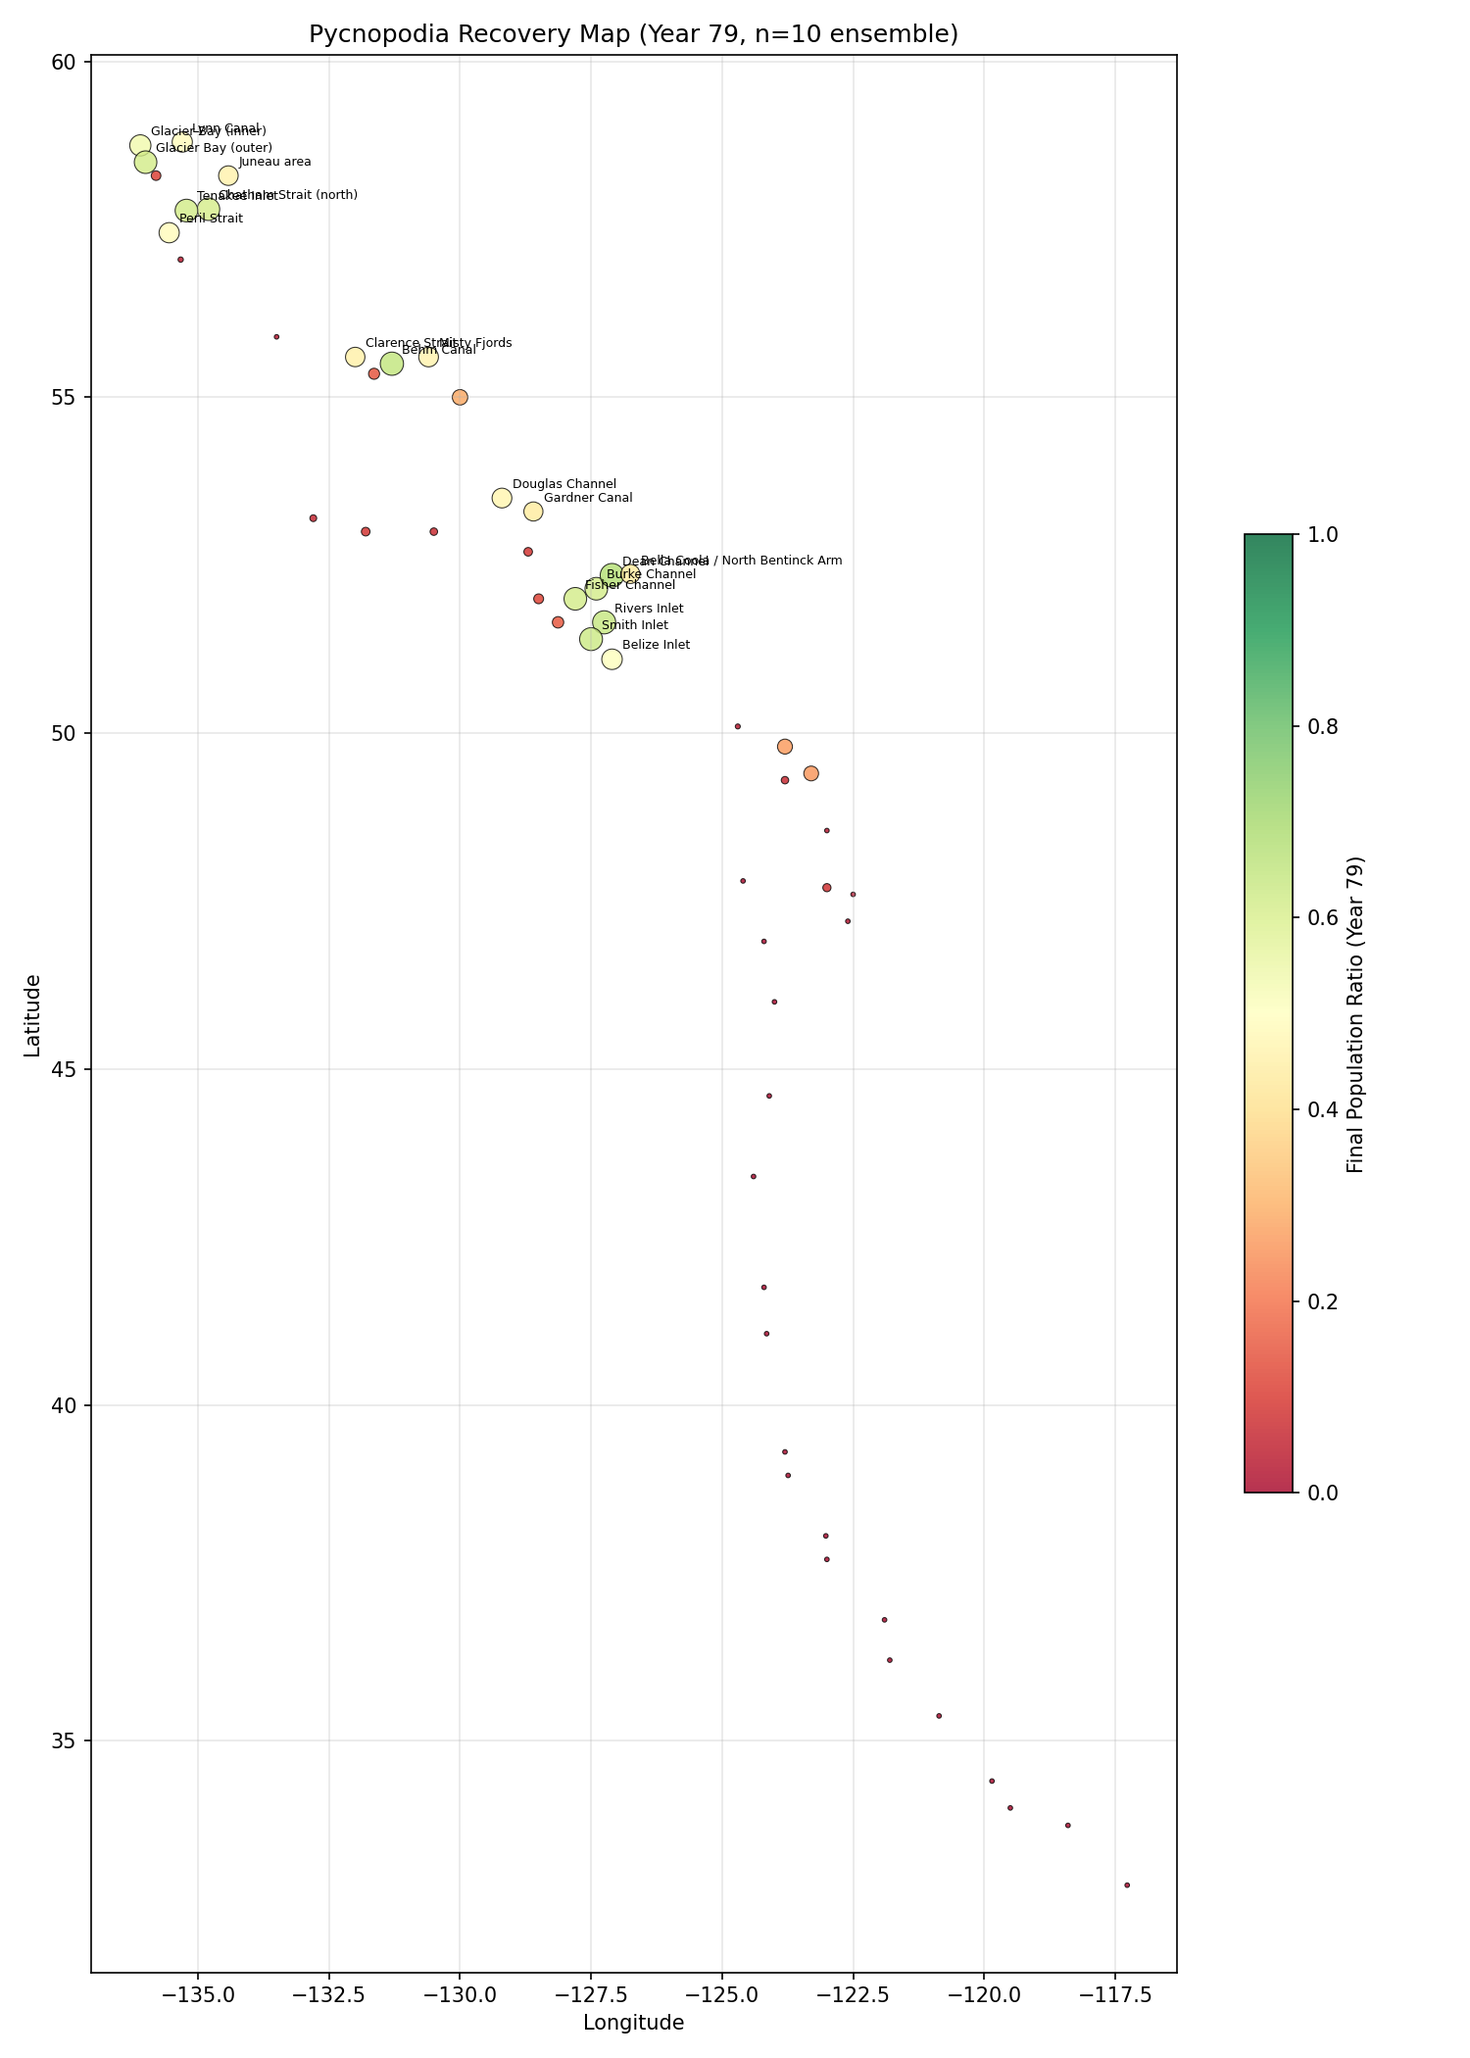
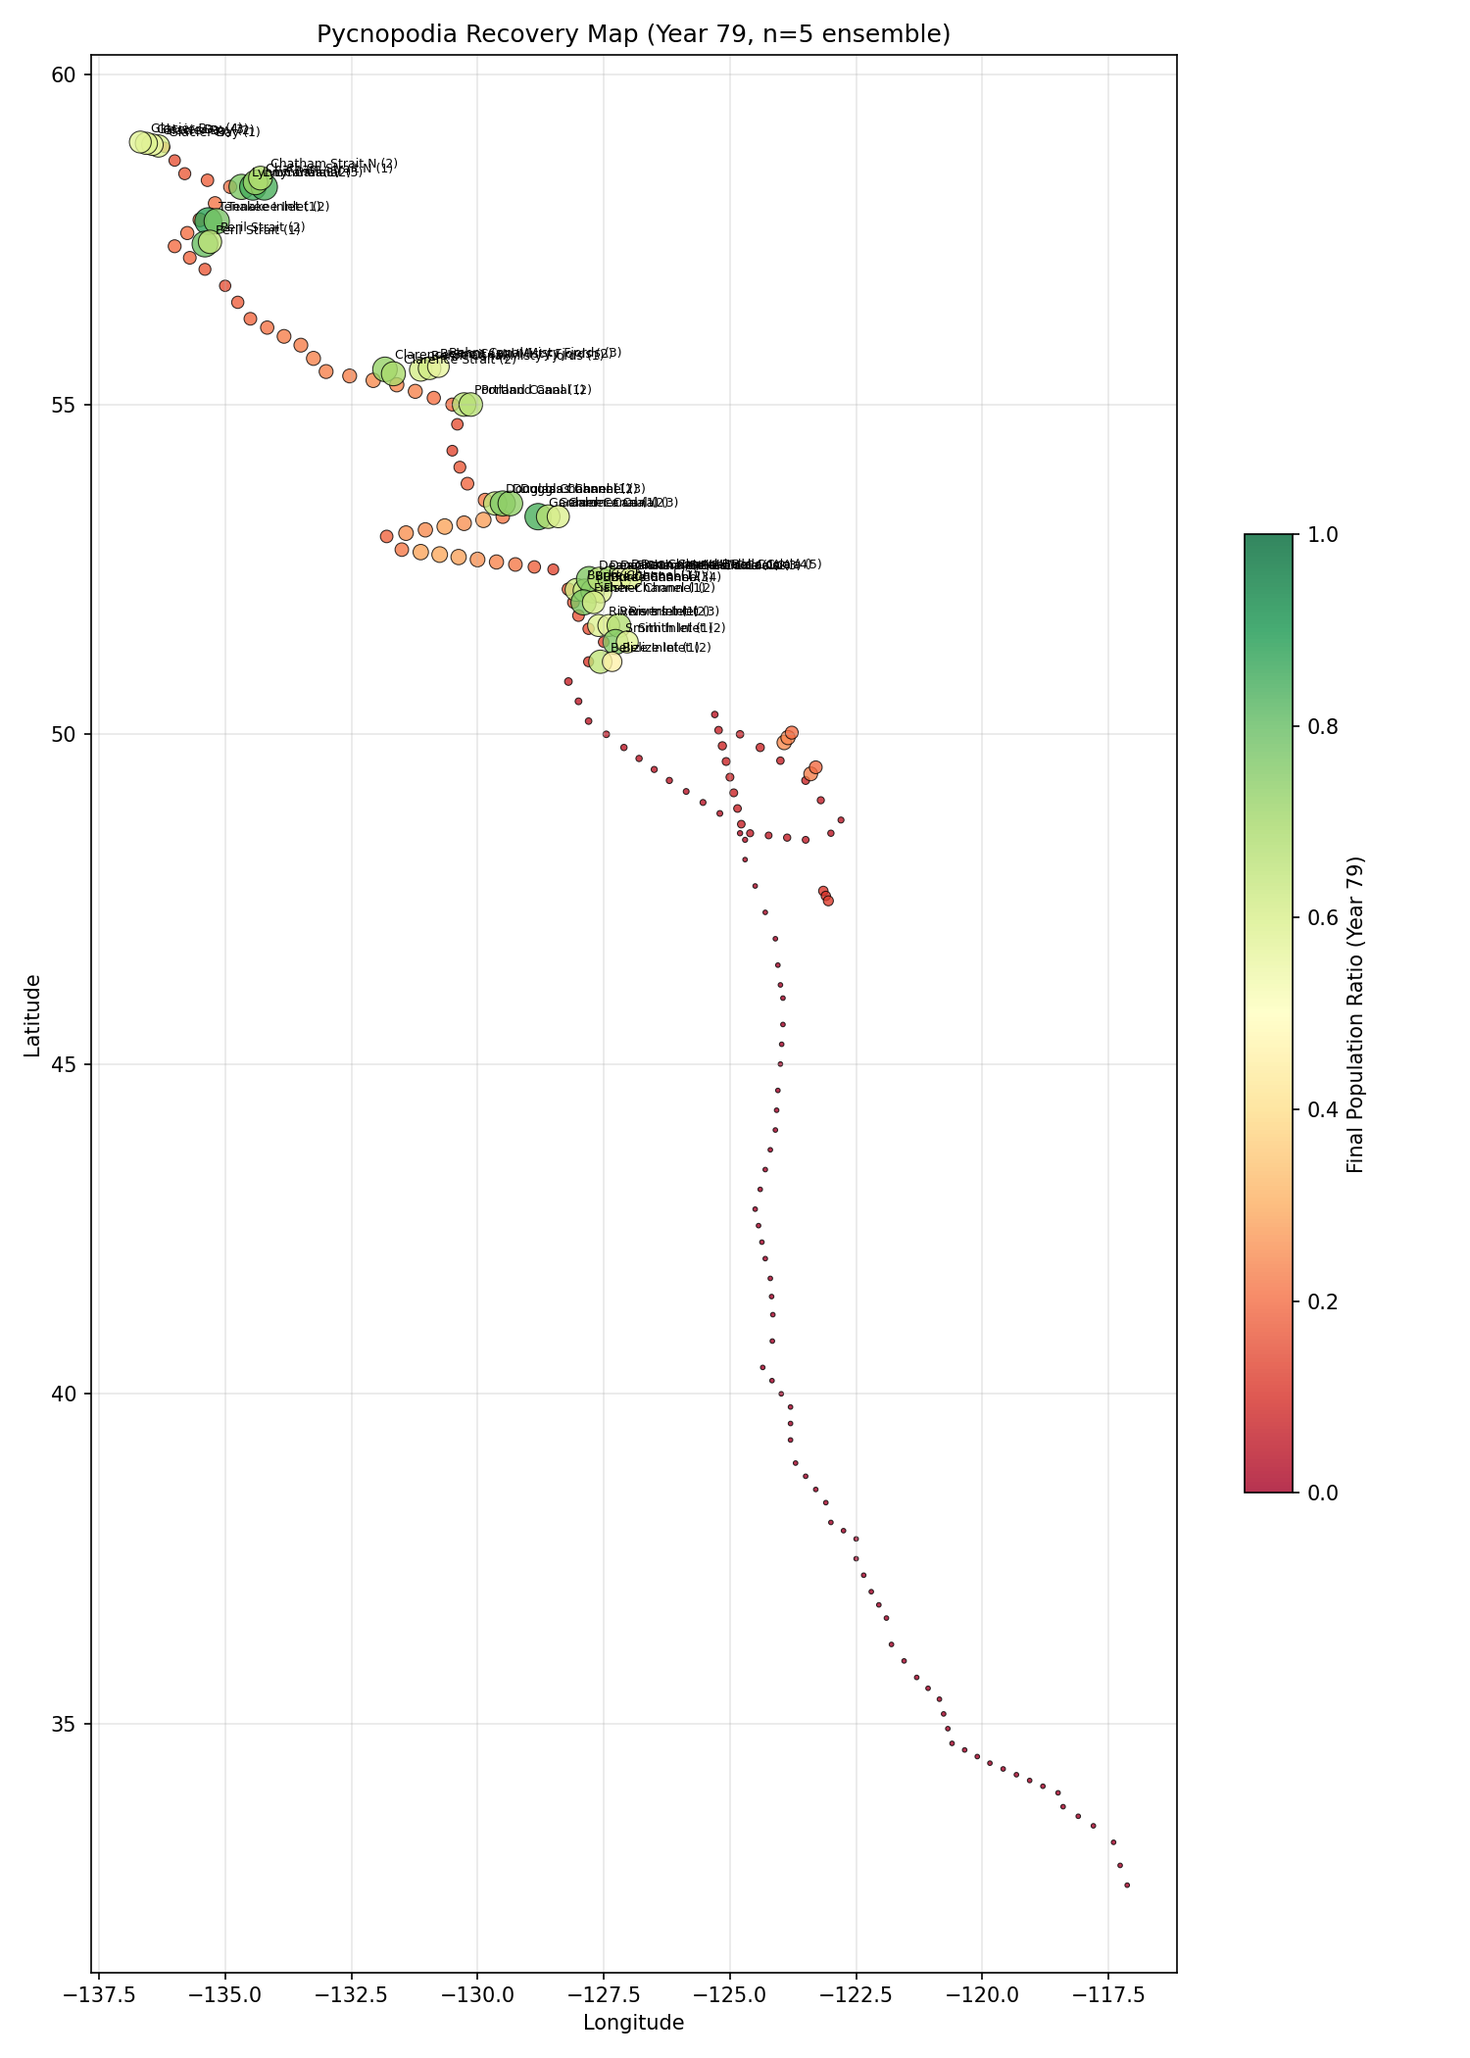
scale up to 200 sites: dense coastline + 19 fjord branches
data/coastline.py: Generate sites every ~25km along Pacific coast
from SE Alaska to S. California, plus named fjord branches with
multiple interior sites per fjord.

200 sites total: 52 fjord, 107 coast, 19 inland, 37 freshwater lens

5-seed ensemble results:
  SE AK N: 94.8% decline, 43.2% recovery
  BC Fjords: 97.3% decline, 51.6% recovery
  Salish Sea: 99.8% decline, 9.5% recovery
  S. CA: 100% decline, 0% recovery

run_geo.py --dense flag enables 200-site mode

diff --git a/data/coastline.py b/data/coastline.py
@@ -1,0 +1,306 @@
+"""
+Generate dense site network along Pacific coast from coastline waypoints.
+
+Approach:
+1. Define coastline as waypoints (lat/lon) from SE Alaska to S. California
+2. Interpolate sites every ~25 km along the coast
+3. Flag known fjord locations from real_sites.py
+4. Add fjord arm sites branching off the main coast
+
+This gives ~300-500 sites with real geography.
+"""
+
+import math
+import numpy as np
+from dataclasses import dataclass, field
+from typing import List, Tuple, Optional
+
+# Import the curated fjord sites as anchors
+from data.real_sites import ALL_SITES as CURATED_SITES, RealSite, haversine_km
+
+
+# ============================================================
+# Coastline waypoints (main coast, excluding fjord interiors)
+# These trace the outer coast from SE Alaska to S. California
+# ============================================================
+COASTLINE_WAYPOINTS = [
+    # SE Alaska North — Inside Passage / outer coast
+    (58.90, -136.20, "se_alaska_north"),  # Glacier Bay entrance
+    (58.50, -135.80, "se_alaska_north"),  # Icy Strait
+    (58.30, -134.90, "se_alaska_north"),  # Near Juneau
+    (57.80, -135.50, "se_alaska_north"),  # Chichagof Island
+    (57.40, -136.00, "se_alaska_north"),  # Kruzof Island
+    (57.05, -135.40, "se_alaska_north"),  # Sitka area (boundary)
+    
+    # SE Alaska South — outer coast / panhandle
+    (56.80, -135.00, "se_alaska_south"),  # Baranof Island south
+    (56.30, -134.50, "se_alaska_south"),  # Kuiu Island
+    (55.90, -133.50, "se_alaska_south"),  # Prince of Wales west
+    (55.50, -133.00, "se_alaska_south"),  # Prince of Wales south
+    (55.30, -131.60, "se_alaska_south"),  # Ketchikan area
+    (55.00, -130.50, "se_alaska_south"),  # Portland Canal approach
+    (54.70, -130.40, "se_alaska_south"),  # AK/BC border
+    
+    # BC North Coast
+    (54.30, -130.50, "bc_outer"),  # Prince Rupert area
+    (53.80, -130.20, "bc_outer"),  # Porcher Island
+    (53.30, -129.50, "bc_outer"),  # Pitt Island
+    (53.00, -131.80, "bc_outer"),  # Haida Gwaii east
+    (52.80, -131.50, "bc_outer"),  # Haida Gwaii south
+    
+    # BC Central Coast (fjord country)
+    (52.50, -128.50, "bc_fjords"),  # Milbanke Sound
+    (52.20, -128.20, "bc_fjords"),  # Near Burke Channel entrance
+    (52.00, -128.10, "bc_fjords"),  # Calvert Island area
+    (51.80, -128.00, "bc_fjords"),  # Cape Caution
+    (51.60, -127.80, "bc_fjords"),  # Rivers Inlet approach
+    (51.40, -127.50, "bc_fjords"),  # Smith Inlet area
+    (51.10, -127.80, "bc_fjords"),  # Queen Charlotte Sound
+    (50.80, -128.20, "bc_fjords"),  # Cape Scott (N Vancouver Is)
+    
+    # BC South / North Salish Sea approach
+    (50.50, -128.00, "bc_outer"),   # NW Vancouver Island
+    (50.20, -127.80, "bc_outer"),   # Quatsino Sound
+    (49.80, -127.10, "bc_outer"),   # Nootka Sound
+    (49.30, -126.20, "bc_outer"),   # Clayoquot Sound
+    (48.80, -125.20, "bc_outer"),   # Barkley Sound
+    (48.50, -124.80, "bc_outer"),   # West coast Vancouver Is south
+    
+    # Salish Sea (inside)
+    (48.50, -124.60, "salish_sea"),  # Juan de Fuca entrance
+    (48.40, -123.50, "salish_sea"),  # Victoria area
+    (48.50, -123.00, "salish_sea"),  # San Juan Islands
+    (48.70, -122.80, "salish_sea"),  # Bellingham area
+    (49.00, -123.20, "salish_sea"),  # Vancouver area
+    (49.30, -123.50, "salish_sea"),  # Howe Sound
+    (49.60, -124.00, "salish_sea"),  # Texada Island
+    (50.00, -124.80, "salish_sea"),  # Discovery Islands
+    (50.30, -125.30, "salish_sea"),  # Johnstone Strait
+    
+    # WA Outer Coast
+    (48.40, -124.70, "wa_or_outer"),  # Cape Flattery
+    (48.10, -124.70, "wa_or_outer"),  # Olympic Coast N
+    (47.70, -124.50, "wa_or_outer"),  # Quinault
+    (47.30, -124.30, "wa_or_outer"),  # Grays Harbor
+    (46.90, -124.10, "wa_or_outer"),  # Willapa Bay
+    (46.50, -124.05, "wa_or_outer"),  # Long Beach
+    (46.20, -124.00, "wa_or_outer"),  # Columbia River mouth
+    
+    # OR Coast
+    (46.00, -123.95, "wa_or_outer"),  # Astoria
+    (45.60, -123.95, "wa_or_outer"),  # Tillamook
+    (45.00, -124.00, "wa_or_outer"),  # Lincoln City
+    (44.60, -124.05, "wa_or_outer"),  # Newport
+    (44.00, -124.10, "wa_or_outer"),  # Florence
+    (43.40, -124.30, "wa_or_outer"),  # Coos Bay
+    (42.80, -124.50, "wa_or_outer"),  # Gold Beach
+    (42.05, -124.30, "wa_or_outer"),  # Brookings / OR-CA border
+    
+    # N California
+    (41.75, -124.20, "n_california"),  # Crescent City
+    (41.20, -124.15, "n_california"),  # Trinidad Head
+    (40.80, -124.16, "n_california"),  # Eureka
+    (40.40, -124.35, "n_california"),  # Cape Mendocino
+    (39.80, -123.80, "n_california"),  # Fort Bragg
+    (39.30, -123.80, "n_california"),  # Mendocino
+    (38.95, -123.70, "n_california"),  # Point Arena
+    
+    # C California
+    (38.35, -123.10, "c_california"),  # Bodega Bay
+    (38.05, -123.00, "c_california"),  # Point Reyes
+    (37.80, -122.50, "c_california"),  # San Francisco
+    (37.50, -122.50, "c_california"),  # Half Moon Bay
+    (37.00, -122.20, "c_california"),  # Santa Cruz
+    (36.60, -121.90, "c_california"),  # Monterey
+    (36.20, -121.80, "c_california"),  # Big Sur
+    (35.70, -121.30, "c_california"),  # San Simeon
+    (35.37, -120.85, "c_california"),  # Morro Bay
+    (34.70, -120.60, "c_california"),  # Point Conception
+    
+    # S California
+    (34.40, -119.85, "s_california"),  # Santa Barbara
+    (34.05, -118.80, "s_california"),  # Ventura / Channel Is
+    (33.95, -118.50, "s_california"),  # Malibu
+    (33.74, -118.40, "s_california"),  # Palos Verdes
+    (33.45, -117.80, "s_california"),  # Dana Point
+    (33.20, -117.40, "s_california"),  # Oceanside
+    (32.85, -117.27, "s_california"),  # La Jolla
+    (32.55, -117.13, "s_california"),  # Border
+]
+
+
+# Known fjord locations (branches off main coast)
+# Each is: (entrance_lat, entrance_lon, head_lat, head_lon, name, region, sill_depth, has_lens, n_sites)
+FJORD_BRANCHES = [
+    # SE Alaska North
+    (58.90, -136.20, 59.00, -136.80, "Glacier Bay", "se_alaska_north", 20, True, 4),
+    (58.30, -134.90, 58.30, -134.00, "Lynn Canal", "se_alaska_north", 300, True, 3),
+    (57.78, -135.50, 57.78, -135.00, "Tenakee Inlet", "se_alaska_north", 30, True, 2),
+    (57.40, -135.50, 57.50, -135.20, "Peril Strait", "se_alaska_north", 15, False, 2),
+    (58.30, -134.50, 58.50, -134.20, "Chatham Strait N", "se_alaska_north", 200, False, 2),
+    
+    # SE Alaska South
+    (55.50, -131.30, 55.60, -130.60, "Behm Canal/Misty Fjords", "se_alaska_south", 30, True, 3),
+    (55.60, -132.00, 55.40, -131.50, "Clarence Strait", "se_alaska_south", 150, False, 2),
+    
+    # BC Fjords (the big ones)
+    (52.20, -128.20, 52.15, -127.40, "Burke Channel", "bc_fjords", 40, True, 4),
+    (52.35, -128.00, 52.37, -126.75, "Dean Channel/Bella Coola", "bc_fjords", 50, True, 5),
+    (52.00, -128.10, 52.00, -127.50, "Fisher Channel", "bc_fjords", 60, False, 2),
+    (51.65, -127.80, 51.65, -127.00, "Rivers Inlet", "bc_fjords", 35, True, 3),
+    (51.40, -127.50, 51.40, -126.80, "Smith Inlet", "bc_fjords", 25, True, 2),
+    (51.10, -127.80, 51.10, -127.10, "Belize Inlet", "bc_fjords", 20, False, 2),
+    (53.50, -129.80, 53.50, -129.20, "Douglas Channel", "bc_fjords", 100, True, 3),
+    (53.30, -129.00, 53.30, -128.20, "Gardner Canal", "bc_fjords", 40, True, 3),
+    (55.00, -130.40, 55.00, -130.00, "Portland Canal", "bc_fjords", 30, True, 2),
+    
+    # Salish Sea fjords
+    (49.30, -123.50, 49.60, -123.20, "Howe Sound", "salish_sea", 70, False, 2),
+    (49.80, -124.00, 50.10, -123.70, "Jervis Inlet", "salish_sea", 200, True, 3),
+    (47.70, -123.20, 47.40, -123.00, "Hood Canal", "salish_sea", 50, False, 3),
+]
+
+
+def interpolate_coast_sites(waypoints: list, spacing_km: float = 25.0) -> List[RealSite]:
+    """
+    Generate sites along coastline at regular intervals.
+    
+    Args:
+        waypoints: List of (lat, lon, region) tuples
+        spacing_km: Target distance between sites in km
+    
+    Returns:
+        List of RealSite objects along the coast
+    """
+    sites = []
+    site_id = 0
+    
+    for i in range(len(waypoints) - 1):
+        lat1, lon1, region1 = waypoints[i]
+        lat2, lon2, region2 = waypoints[i + 1]
+        
+        # Skip if crossing regions (different region = gap)
+        dist = haversine_km(lat1, lon1, lat2, lon2)
+        n_segments = max(1, int(dist / spacing_km))
+        
+        for s in range(n_segments):
+            frac = s / n_segments
+            lat = lat1 + frac * (lat2 - lat1)
+            lon = lon1 + frac * (lon2 - lon1)
+            region = region1  # Use source region
+            
+            # Determine base temperature from latitude
+            base_temp = estimate_temperature(lat)
+            
+            sites.append(RealSite(
+                name=f"Coast_{site_id:03d}",
+                lat=lat,
+                lon=lon,
+                region=region,
+                site_type="outer_coast",
+                base_temp_C=base_temp,
+            ))
+            site_id += 1
+    
+    # Add final waypoint
+    lat, lon, region = waypoints[-1]
+    sites.append(RealSite(
+        name=f"Coast_{site_id:03d}",
+        lat=lat,
+        lon=lon,
+        region=region,
+        site_type="outer_coast",
+        base_temp_C=estimate_temperature(lat),
+    ))
+    
+    return sites
+
+
+def generate_fjord_sites(fjords: list) -> List[RealSite]:
+    """Generate sites along fjord branches."""
+    sites = []
+    
+    for entrance_lat, entrance_lon, head_lat, head_lon, name, region, sill_depth, has_lens, n_sites in fjords:
+        for s in range(n_sites):
+            frac = (s + 1) / (n_sites + 1)  # Evenly spaced, not at entrance
+            lat = entrance_lat + frac * (head_lat - entrance_lat)
+            lon = entrance_lon + frac * (head_lon - entrance_lon)
+            
+            # Inner sites have shallower effective sill (more isolated)
+            effective_sill = sill_depth * (1 - 0.3 * frac)  # Gets shallower toward head
+            
+            base_temp = estimate_temperature(lat)
+            if has_lens:
+                base_temp -= 1.0  # Freshwater lens pushes to colder water
+            
+            site_name = f"{name} ({s+1})" if n_sites > 1 else name
+            
+            sites.append(RealSite(
+                name=site_name,
+                lat=lat,
+                lon=lon,
+                region=region,
+                site_type="fjord",
+                sill_depth_m=effective_sill,
+                base_temp_C=base_temp,
+                has_freshwater_lens=has_lens,
+                notes=f"Part of {name} fjord system",
+            ))
+    
+    return sites
+
+
+def estimate_temperature(lat: float) -> float:
+    """Estimate base bottom temperature from latitude."""
+    # Simple linear model: colder at higher latitudes
+    # SE Alaska (~58°N) ≈ 6°C, S. California (~33°N) ≈ 15°C
+    return 6.0 + (58.0 - lat) * 0.36
+
+
+def generate_full_site_network(coast_spacing_km: float = 25.0) -> List[RealSite]:
+    """Generate complete site network: coast + fjords."""
+    coast_sites = interpolate_coast_sites(COASTLINE_WAYPOINTS, coast_spacing_km)
+    fjord_sites = generate_fjord_sites(FJORD_BRANCHES)
+    
+    # Mark coast sites near fjord entrances as "inland_sea" for Salish Sea
+    for cs in coast_sites:
+        if cs.region == "salish_sea":
+            cs.site_type = "inland_sea"
+    
+    all_sites = coast_sites + fjord_sites
+    return all_sites
+
+
+if __name__ == "__main__":
+    sites = generate_full_site_network(spacing_km=25.0)
+    
+    print(f"Total sites: {len(sites)}")
+    
+    # Count by region and type
+    regions = {}
+    for s in sites:
+        key = s.region
+        if key not in regions:
+            regions[key] = {"total": 0, "fjord": 0, "coast": 0, "inland": 0, "lens": 0}
+        regions[key]["total"] += 1
+        if s.site_type == "fjord":
+            regions[key]["fjord"] += 1
+        elif s.site_type == "inland_sea":
+            regions[key]["inland"] += 1
+        else:
+            regions[key]["coast"] += 1
+        if s.has_freshwater_lens:
+            regions[key]["lens"] += 1
+    
+    region_order = ["se_alaska_north", "se_alaska_south", "bc_fjords", "bc_outer",
+                    "salish_sea", "wa_or_outer", "n_california", "c_california", "s_california"]
+    
+    print(f"\n{'Region':<22} {'Total':>5} {'Fjord':>5} {'Coast':>5} {'Inland':>6} {'FW Lens':>7}")
+    print("-" * 55)
+    for r in region_order:
+        if r in regions:
+            d = regions[r]
+            print(f"{r:<22} {d['total']:>5} {d['fjord']:>5} {d['coast']:>5} {d['inland']:>6} {d['lens']:>7}")
+    
+    print(f"\nLatitude range: {min(s.lat for s in sites):.1f}°N to {max(s.lat for s in sites):.1f}°N")
+    print(f"Temperature range: {min(s.base_temp_C for s in sites):.1f}°C to {max(s.base_temp_C for s in sites):.1f}°C")

diff --git a/run_geo.py b/run_geo.py
@@ -226,16 +226,26 @@ def main():
     parser = argparse.ArgumentParser()
     parser.add_argument('--ensemble', type=int, default=5)
     parser.add_argument('--years', type=int, default=80)
+    parser.add_argument('--dense', action='store_true', help='Use 200-site dense network')
     args = parser.parse_args()
     
     outdir = os.path.join(os.path.dirname(os.path.abspath(__file__)), 'figures', 'geo')
     os.makedirs(outdir, exist_ok=True)
     
     config = GeoConfig(n_years=args.years)
-    sites = list(ALL_SITES)
+    if args.dense:
+        from data.coastline import generate_full_site_network
+        sites = generate_full_site_network()
+    else:
+        sites = list(ALL_SITES)
     
     print(f"Running {args.ensemble}-seed ensemble ({args.years} years, {len(sites)} sites)...")
-    results = run_geo_ensemble(n_runs=args.ensemble, config=config)
+    from pycnopodia.geo_model import GeoSimulation
+    results = []
+    for seed in range(args.ensemble):
+        sim = GeoSimulation(config=config, sites=sites, seed=seed)
+        results.append(sim.run())
+        print(f"  Run {seed+1}/{args.ensemble} complete")
     
     print("\nGenerating figures...")
     plot_ensemble_trajectories(results, sites, outdir)

diff --git a/pycnopodia/geo_model.py b/pycnopodia/geo_model.py
@@ -20,6 +20,7 @@ import os
 # Add parent dir to path for imports
 sys.path.insert(0, os.path.dirname(os.path.dirname(os.path.abspath(__file__))))
 from data.real_sites import ALL_SITES, RealSite, haversine_km
+from data.coastline import generate_full_site_network
 
 
 @dataclass
@@ -266,9 +267,15 @@ def build_disease_connectivity(sites: List[RealSite], config: GeoConfig) -> np.n
 class GeoSimulation:
     """Geography-based Pycnopodia population simulation."""
     
-    def __init__(self, config: GeoConfig = None, sites: List[RealSite] = None, seed: int = 42):
+    def __init__(self, config: GeoConfig = None, sites: List[RealSite] = None, 
+                 seed: int = 42, use_dense: bool = False):
         self.config = config or GeoConfig()
-        self.sites = sites or list(ALL_SITES)
+        if sites is not None:
+            self.sites = sites
+        elif use_dense:
+            self.sites = generate_full_site_network()
+        else:
+            self.sites = list(ALL_SITES)
         self.n_sites = len(self.sites)
         self.rng = np.random.default_rng(seed)
         
